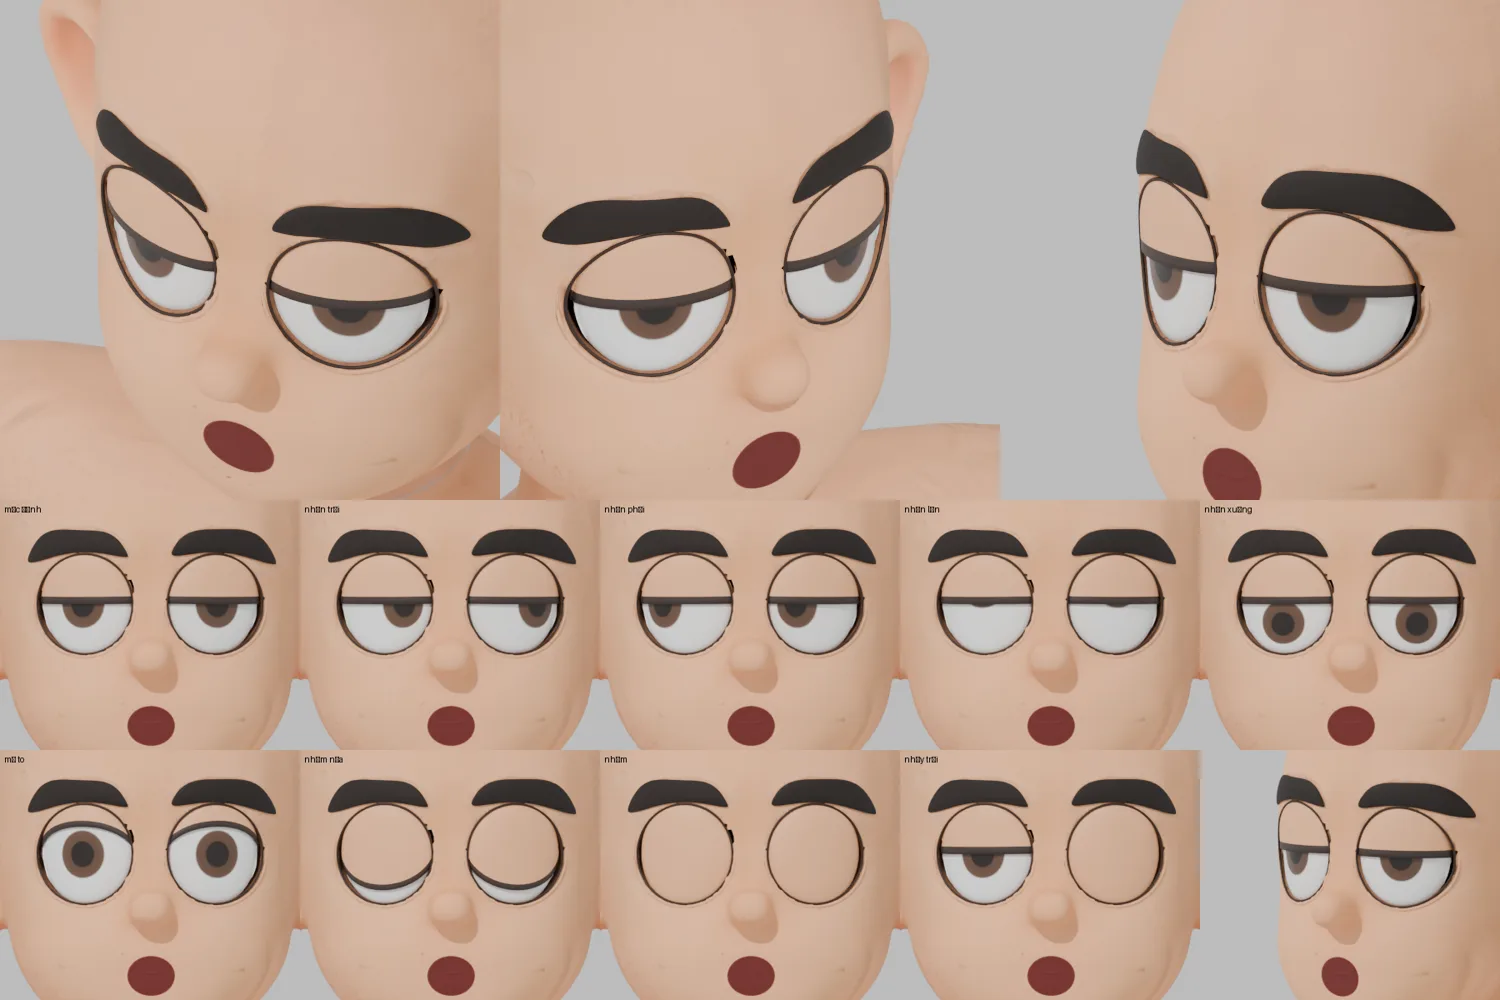
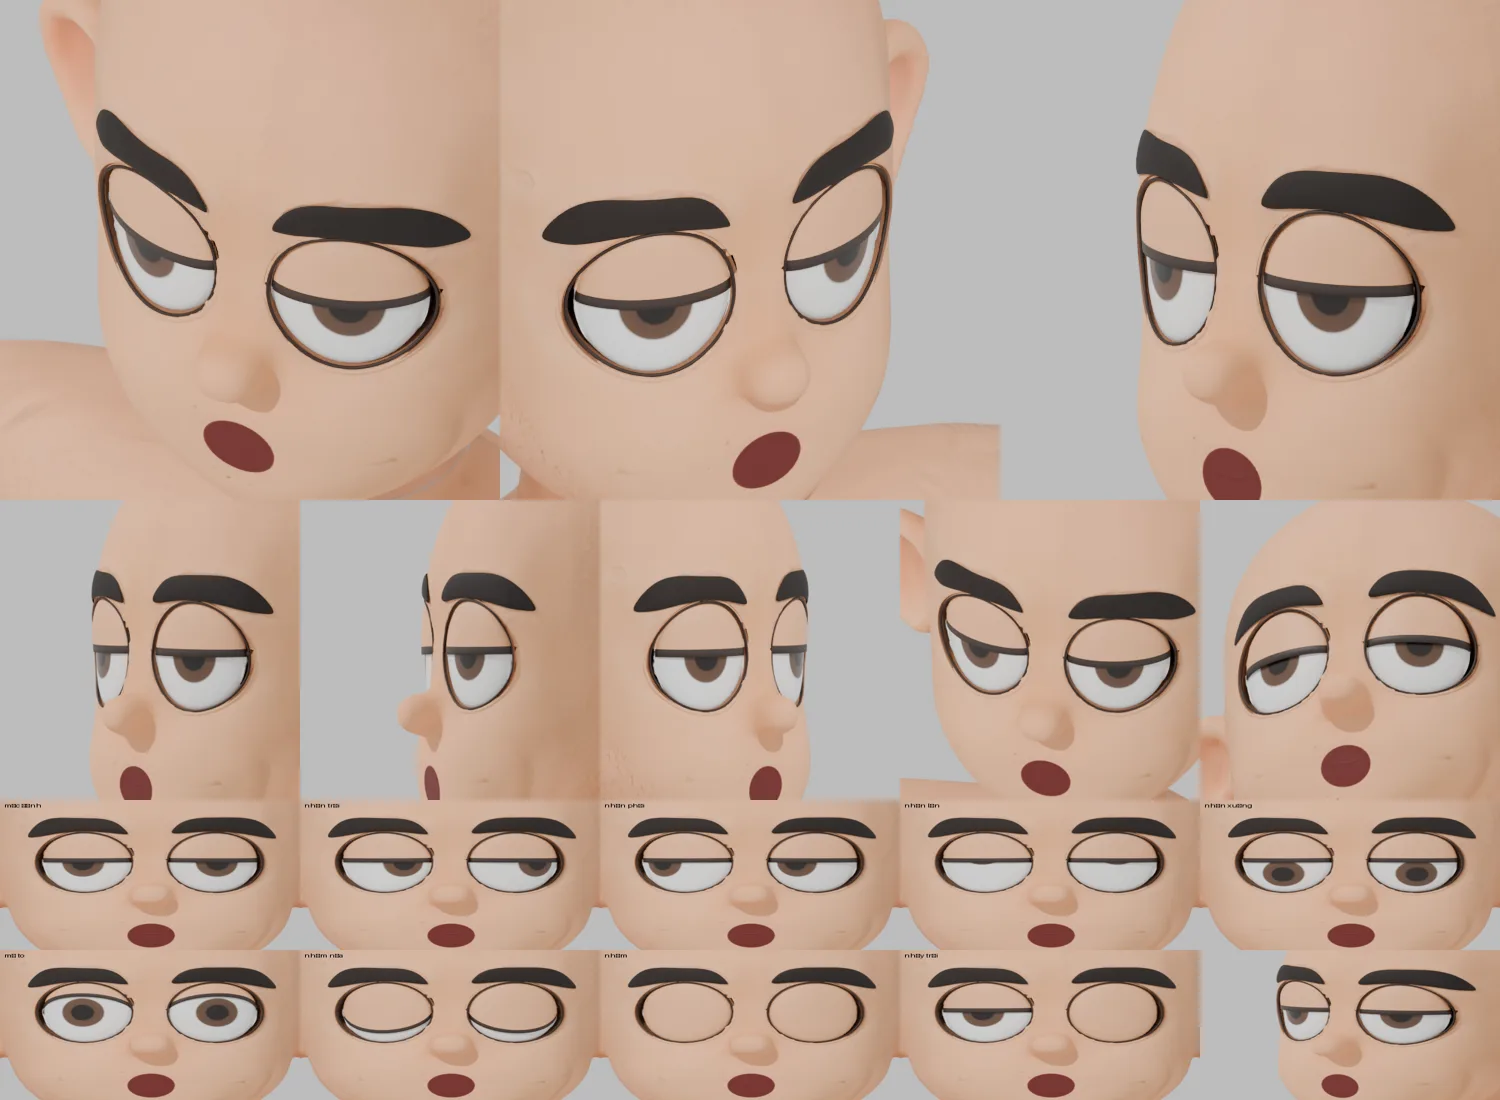
fix(nam-002): hết gai ở khóe và mép dưới hốc mắt; vành da dùng vật liệu da riêng
Claude-Session: https://claude.ai/code/session_015xtvRfLqUD2K9LfPtx8x7k

diff --git a/assets/nhan-vat-3d/nam-002/mat_nam002.py b/assets/nhan-vat-3d/nam-002/mat_nam002.py
@@ -93,7 +93,7 @@ def khoet_hoc(body):
         nv = [g for g in r['geom'] if isinstance(g, bmesh.types.BMVert)]
         for v in nv:                                   # đẩy vào trong và co về tâm ⇒ tường hốc
             d = Vector((v.co.x - cx, 0, v.co.z - EYE_Z)); v.co.x = cx + d.x * 0.90; v.co.z = EYE_Z + d.z * 0.90; v.co.y += SAU_HOC
-        for f in {f for v in nv for f in v.link_faces}: f.material_index = si; f.smooth = True
+        bmesh.ops.delete(bm, geom=nv, context='VERTS')            # bỏ tường hốc cũ: ống lót OngHoc.* đã che thay, tường để lại gai/khe đen
         # không lấp đáy: nhãn cầu bầu dục che kín lòng hốc
     bmesh.ops.recalc_face_normals(bm, faces=bm.faces[:])
     bm.to_mesh(me); me.update(); bm.free()
@@ -206,7 +206,7 @@ def _vien_3d(sc, body, cx, k):
     pts = [tuple(p_.co[:3]) for p_ in sp.points]
     # ống lót hốc: nối kín mép hốc với vòng nhỏ phía sau nhãn cầu (che khe tường hốc)
     P0 = np.array(pts); c0 = P0.mean(0); bm_ = bmesh.new(); rings = []
-    for f, dy in ((1.0, 0.0), (0.97, 0.004), (0.88, 0.014), (0.70, 0.030)):
+    for f, dy in ((1.06, -0.0005), (1.0, 0.002), (0.97, 0.006), (0.88, 0.016), (0.70, 0.030)):
         rings.append([bm_.verts.new((c0[0] + (p_[0] - c0[0]) * f, p_[1] + dy, c0[2] + (p_[2] - c0[2]) * f)) for p_ in P0])
     nP = len(P0)
     for r0, r1 in zip(rings, rings[1:]):
@@ -222,7 +222,7 @@ def _vien_3d(sc, body, cx, k):
         p_.radius = min(1.0, i_ / 6, (39 - i_) / 6)          # hai đầu thon về 0 ⇒ không còn chấm cụt
     sp2.use_cyclic_u = False; sp2.use_endpoint_u = True; sp2.order_u = 4
     ob2 = bpy.data.objects.new(f'VanhDa.{k}', cu2); sc.collection.objects.link(ob2)
-    cu2.materials.append(body.data.materials[0]); _VANH[k] = ob2
+    cu2.materials.append(_mat('vanh_da', (0.93, 0.68, 0.50), 0.8)); _VANH[k] = ob2     # vật liệu màu da đơn giản (đường cong không có UV, dùng vật liệu thân sẽ ra đen)
     m = bpy.data.materials.get('vien_mat') or _mat('vien_mat', (0.18, 0.11, 0.08), 0.6); cu.materials.append(m)
     return ob
 
@@ -282,11 +282,11 @@ def tao_mat(sc, body):
         mat = _eye_material(k); mat.node_tree.nodes['Vector Math'].inputs[1].default_value = (1 / Ek[0], 1 / Ek[1], 1 / Ek[2])
         me.materials.append(mat)
         for p in me.polygons: p.use_smooth = True
-        Rm = R_NHAN + 0.0012; El = ((ax_ + 0.0012) / Rm, (dep + 0.0012) / Rm, (az_ + 0.0012) / Rm)
+        Rm = R_NHAN + 0.0012; El = ((ax_ - 0.0004) / Rm, (dep + 0.0012) / Rm, (az_ - 0.0004) / Rm)        # mí nằm gọn trong viền (không nhô mũi nhọn ở khóe)
         bm = bmesh.new(); bmesh.ops.create_uvsphere(bm, u_segments=48, v_segments=32, radius=Rm)
         bmesh.ops.delete(bm, geom=[v for v in bm.verts if v.co.z < -1e-6], context='VERTS')
         edge = [v.co.z < 0.004 for v in bm.verts]; base = [v.co.copy() for v in bm.verts]
-        for v in bm.verts: v.co.x *= El[0]; v.co.y *= El[1]; v.co.z *= El[2]; v.co = _uon(v.co, ax_ + 0.0012, az_ + 0.0012)
+        for v in bm.verts: v.co.x *= El[0]; v.co.y *= El[1]; v.co.z *= El[2]; v.co = _uon(v.co, ax_ - 0.0004, az_ - 0.0004)
         lme = bpy.data.meshes.new(f'Mi.{k}'); bm.to_mesh(lme); bm.free()
         at = lme.attributes.new('mep_mi', 'FLOAT', 'POINT'); at.data.foreach_set('value', np.array(edge, np.float32))
         l = bpy.data.objects.new(f'Mi.{k}', lme); sc.collection.objects.link(l); l.matrix_world = Matrix.Translation(ctr) @ M.to_4x4()
@@ -294,7 +294,7 @@ def tao_mat(sc, body):
         for ang in GOC_MI[1:] + (-32.0,):
             kb = l.shape_key_add(name=f'mi_{int(ang):+d}', from_mix=False); R = Matrix.Rotation(math.radians(ang), 3, 'X')
             for i, p0 in enumerate(base):
-                q = R @ p0; kb.data[i].co = _uon(Vector((q.x * El[0], q.y * El[1], q.z * El[2])), ax_ + 0.0012, az_ + 0.0012)
+                q = R @ p0; kb.data[i].co = _uon(Vector((q.x * El[0], q.y * El[1], q.z * El[2])), ax_ - 0.0004, az_ - 0.0004)
         sol = l.modifiers.new('day', 'SOLIDIFY'); sol.thickness = 0.0012; sol.offset = 1
         lme.materials.append(lm)
         for p in lme.polygons: p.use_smooth = True
@@ -317,7 +317,7 @@ def gan_mat(arm, objs):
     hb = arm.data.bones['Head']
     for k in ('L', 'R'):
         e, l, c, vn = objs[k]
-        for ob in (e, l, vn, _VANH[k], _MAY.get(k), _ONG.get(k)):
+        for ob in (e, l, vn, _VANH.get(k), _MAY.get(k), _ONG.get(k)):
             if ob is None: continue
             w = ob.matrix_world.copy(); ob.parent = arm; ob.parent_type = 'BONE'; ob.parent_bone = 'Head'
             bpy.context.view_layer.update(); ob.matrix_world = w

diff --git a/assets/nhan-vat-3d/nam-002/README.md b/assets/nhan-vat-3d/nam-002/README.md
@@ -119,3 +119,5 @@ Còn lại: mép lông mày còn viền nhạt, lởm chởm. Quanh hốc còn m
 - Còn lại: ở khóe ngoài mắt phải còn một vạch tối rất nhỏ khi nhìn gần.
 
 **Viền mảnh (15/11/2026):** nét viền mắt giảm còn khoảng 1,8 mm (bán kính 0,9 mm), lệch ra ngoài mép lỗ 0,6 mm. Độ sâu của viền theo da được lọc mượt quanh vòng (giữ 6 hài bậc thấp, không lún dưới da), và tăng độ phân giải đường cong, nên nét đều, hết gợn lem. Còn lại: ở hai khóe mắt, mép mí đôi khi lộ một vạch nhỏ ngoài viền.
+
+**Sửa lỗi khóe mắt (15/11/2026):** mí co lại nằm gọn trong viền (hết mũi nhọn nhô ra ngoài ở hai khóe); tường hốc cũ trên lưới bị bỏ, ống lót `OngHoc` che thay; ống lót bắt đầu sát ngoài viền. Vành da `VanhDa` dùng vật liệu màu da riêng (trước dùng vật liệu thân nên ra màu đen). Còn lại: ở khóe trong mắt trái còn một khe đen hẹp giữa viền và nhãn cầu, và một mảnh đen nhỏ ở khóe ngoài mắt phải khi nhìn rất gần.
